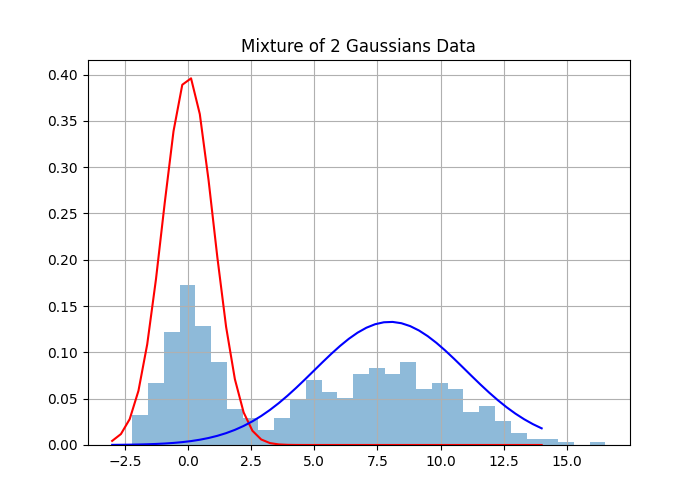
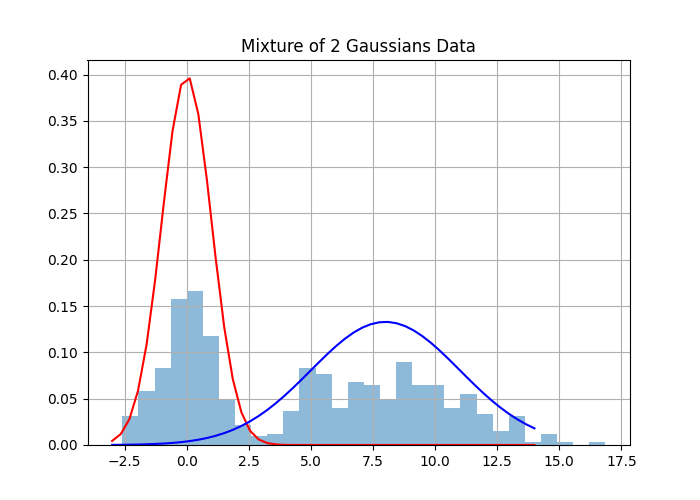
test

diff --git a/docs/post/2021-04-04-gibbs-sampling-for-mixutre-of-normals/index.en.html b/docs/post/2021-04-04-gibbs-sampling-for-mixutre-of-normals/index.en.html
@@ -69,29 +69,34 @@ code span.wa { color: #bf0303; } /* Warning */
 </style>
 
 
+<head>
+<script src="https://cdnjs.cloudflare.com/ajax/libs/KaTeX/0.11.1/katex.min.js"
+        integrity="sha256-F/Xda58SPdcUCr+xhSGz9MA2zQBPb0ASEYKohl8UCHc=" crossorigin="anonymous">
+</script>
+<link rel="stylesheet" href="https://cdn.jsdelivr.net/npm/pseudocode@latest/build/pseudocode.min.css">
+<script src="https://cdn.jsdelivr.net/npm/pseudocode@latest/build/pseudocode.min.js">
+</script>
+</head>
 <div id="gibbs-sampling" class="section level2">
 <h2>Gibbs Sampling</h2>
 <p>Gibbs sampling is a Markov Chain Monte Carlo method for sampling from a posterior distribution usually defined
 as <span class="math inline">\(p(\theta|data)\)</span>. The idea behind the Gibbs Sampler is to sweep through each one of the parameters and sample from their conditional distributions, fixing the other parameters constant. For example, consider the random variables <span class="math inline">\(X_1, X_2, X_3\)</span> and assume that I can write out the analytic form of <span class="math inline">\(p(X_1|X_2,X_3), p(X_2|X_1,X_3), p(X_3|X_2,X_1)\)</span> . We start by initializing <span class="math inline">\(x_{1,t}, x_{2,t}, x_{3,t}\)</span> and for each iteration <span class="math inline">\(t\)</span> we sample <span class="math inline">\(p(X_{1,t+1}|X_{2,t},X_{3,t})\)</span>, <span class="math inline">\(p(X_{2,t+1}|X_{1,t+1},X_{3,t})\)</span>, and <span class="math inline">\(p(X_{3,t+1}|X_{2,t+1},X_{3,t+1})\)</span>. This process can then continue until convergence. Algorithm 1 details a general Gibbs Sampler.</p>
-<span class="math display">\[
-\begin{algorithm}[H]
-\SetAlgoLined
-\KwResult{Write here the result }
- initialization\;
- \While{While condition}{
-  instructions\;
-  \eIf{condition}{
-   instructions1\;
-   instructions2\;
-   }{
-   instructions3\;
-  }
- }
- \caption{How to write algorithms}
-\end{algorithm}
-\]</span>
-$$
-<p>$$</p>
+<pre id="gibbs" style="display:hidden;">
+    \begin{algorithm}
+    \caption{Gibbs Sampling}
+    \begin{algorithmic}
+    \STATE initialize $x_0 \sim q(x)$
+        \FOR{$i = 1, 2, ...$} 
+            \STATE $x_{1,i} \sim p(X_1 = x_1 | X_2 = x_{2,i-1}, X_3 = x_{3,i-1}, ..., X_k = x_{k,i-1})$
+            \STATE $x_{2,i} \sim p(X_2 = x_2 | X_1 = x_{1,i}, X_3 = x_{3,i-1}, ..., X_k = x_{k,i-1})$
+            \STATE $x_{3,i} \sim p(X_3 = x_3 | X_1 = x_{1,i}, X_2 = x_{2,i}, ..., X_k = x_{k,i-1})$
+        \ENDFOR
+    \end{algorithmic}
+    \end{algorithm}
+</pre>
+<script>
+    pseudocode.renderElement(document.getElementById("gibbs"));
+</script>
 </div>
 <div id="mixture-of-normals" class="section level2">
 <h2>Mixture of Normals</h2>
@@ -127,18 +132,19 @@ from <span class="math inline">\(\phi_{\theta_2}(x)\)</span> where <span class="
 <span id="cb1-28"><a href="#cb1-28" aria-hidden="true" tabindex="-1"></a></span>
 <span id="cb1-29"><a href="#cb1-29" aria-hidden="true" tabindex="-1"></a><span class="co"># Create Plot of Data </span></span>
 <span id="cb1-30"><a href="#cb1-30" aria-hidden="true" tabindex="-1"></a>plt.hist(y, <span class="dv">30</span>, density<span class="op">=</span><span class="va">True</span>, alpha<span class="op">=</span><span class="fl">0.5</span>)</span></code></pre></div>
-<pre><code>## (array([0.03204633, 0.0672973 , 0.12177607, 0.17305021, 0.12818534,
-##        0.08972974, 0.0384556 , 0.0288417 , 0.01602317, 0.0288417 ,
-##        0.0480695 , 0.07050194, 0.0576834 , 0.05127414, 0.0769112 ,
-##        0.08332047, 0.0769112 , 0.08972974, 0.06088804, 0.0672973 ,
-##        0.06088804, 0.03525097, 0.04166023, 0.02563707, 0.01281853,
-##        0.00640927, 0.00640927, 0.00320463, 0.        , 0.00320463]), array([-2.20215092, -1.57805458, -0.95395824, -0.3298619 ,  0.29423444,
-##         0.91833078,  1.54242712,  2.16652346,  2.79061979,  3.41471613,
-##         4.03881247,  4.66290881,  5.28700515,  5.91110149,  6.53519783,
-##         7.15929417,  7.78339051,  8.40748685,  9.03158319,  9.65567953,
-##        10.27977587, 10.90387221, 11.52796855, 12.15206489, 12.77616123,
-##        13.40025757, 14.02435391, 14.64845025, 15.27254659, 15.89664293,
-##        16.52073927]), &lt;BarContainer object of 30 artists&gt;)</code></pre>
+<pre><code>## (array([0.03085908, 0.05863225, 0.08331951, 0.1573813 , 0.16663902,
+##        0.1172645 , 0.04937453, 0.02160136, 0.00925772, 0.01234363,
+##        0.03703089, 0.08331951, 0.0771477 , 0.0401168 , 0.06788997,
+##        0.06480407, 0.04937453, 0.08949133, 0.06480407, 0.06480407,
+##        0.0401168 , 0.05554634, 0.03394499, 0.01542954, 0.03085908,
+##        0.00308591, 0.01234363, 0.00308591, 0.        , 0.00308591]), array([-2.58806699e+00, -1.93995950e+00, -1.29185201e+00, -6.43744519e-01,
+##         4.36297185e-03,  6.52470463e-01,  1.30057795e+00,  1.94868544e+00,
+##         2.59679294e+00,  3.24490043e+00,  3.89300792e+00,  4.54111541e+00,
+##         5.18922290e+00,  5.83733039e+00,  6.48543788e+00,  7.13354537e+00,
+##         7.78165286e+00,  8.42976035e+00,  9.07786784e+00,  9.72597534e+00,
+##         1.03740828e+01,  1.10221903e+01,  1.16702978e+01,  1.23184053e+01,
+##         1.29665128e+01,  1.36146203e+01,  1.42627278e+01,  1.49108353e+01,
+##         1.55589428e+01,  1.62070502e+01,  1.68551577e+01]), &lt;BarContainer object of 30 artists&gt;)</code></pre>
 <div class="sourceCode" id="cb3"><pre class="sourceCode python"><code class="sourceCode python"><span id="cb3-1"><a href="#cb3-1" aria-hidden="true" tabindex="-1"></a>plt.plot(x, norm(mu[<span class="dv">0</span>], sigmas[<span class="dv">0</span>]).pdf(x), color<span class="op">=</span><span class="st">&quot;red&quot;</span>)</span>
 <span id="cb3-2"><a href="#cb3-2" aria-hidden="true" tabindex="-1"></a>plt.plot(x, norm(mu[<span class="dv">1</span>], sigmas[<span class="dv">1</span>]).pdf(x), color<span class="op">=</span><span class="st">&quot;blue&quot;</span>)</span>
 <span id="cb3-3"><a href="#cb3-3" aria-hidden="true" tabindex="-1"></a>plt.title(<span class="st">&quot;Mixture of 2 Gaussians Data&quot;</span>)</span>
@@ -314,18 +320,19 @@ p(z|\theta,x) &amp; = \frac{p(\theta,x,z)}{p(\theta,x)} \\
 <span id="cb8-32"><a href="#cb8-32" aria-hidden="true" tabindex="-1"></a>pi <span class="op">=</span> np.<span class="bu">round</span>(np.mean(trace[:,<span class="dv">4</span>]),<span class="dv">2</span>)</span>
 <span id="cb8-33"><a href="#cb8-33" aria-hidden="true" tabindex="-1"></a></span>
 <span id="cb8-34"><a href="#cb8-34" aria-hidden="true" tabindex="-1"></a>plt.hist(y, <span class="dv">30</span>, density<span class="op">=</span><span class="va">True</span>, alpha<span class="op">=</span><span class="fl">0.5</span>)</span></code></pre></div>
-<pre><code>## (array([0.03204633, 0.0672973 , 0.12177607, 0.17305021, 0.12818534,
-##        0.08972974, 0.0384556 , 0.0288417 , 0.01602317, 0.0288417 ,
-##        0.0480695 , 0.07050194, 0.0576834 , 0.05127414, 0.0769112 ,
-##        0.08332047, 0.0769112 , 0.08972974, 0.06088804, 0.0672973 ,
-##        0.06088804, 0.03525097, 0.04166023, 0.02563707, 0.01281853,
-##        0.00640927, 0.00640927, 0.00320463, 0.        , 0.00320463]), array([-2.20215092, -1.57805458, -0.95395824, -0.3298619 ,  0.29423444,
-##         0.91833078,  1.54242712,  2.16652346,  2.79061979,  3.41471613,
-##         4.03881247,  4.66290881,  5.28700515,  5.91110149,  6.53519783,
-##         7.15929417,  7.78339051,  8.40748685,  9.03158319,  9.65567953,
-##        10.27977587, 10.90387221, 11.52796855, 12.15206489, 12.77616123,
-##        13.40025757, 14.02435391, 14.64845025, 15.27254659, 15.89664293,
-##        16.52073927]), &lt;BarContainer object of 30 artists&gt;)</code></pre>
+<pre><code>## (array([0.03085908, 0.05863225, 0.08331951, 0.1573813 , 0.16663902,
+##        0.1172645 , 0.04937453, 0.02160136, 0.00925772, 0.01234363,
+##        0.03703089, 0.08331951, 0.0771477 , 0.0401168 , 0.06788997,
+##        0.06480407, 0.04937453, 0.08949133, 0.06480407, 0.06480407,
+##        0.0401168 , 0.05554634, 0.03394499, 0.01542954, 0.03085908,
+##        0.00308591, 0.01234363, 0.00308591, 0.        , 0.00308591]), array([-2.58806699e+00, -1.93995950e+00, -1.29185201e+00, -6.43744519e-01,
+##         4.36297185e-03,  6.52470463e-01,  1.30057795e+00,  1.94868544e+00,
+##         2.59679294e+00,  3.24490043e+00,  3.89300792e+00,  4.54111541e+00,
+##         5.18922290e+00,  5.83733039e+00,  6.48543788e+00,  7.13354537e+00,
+##         7.78165286e+00,  8.42976035e+00,  9.07786784e+00,  9.72597534e+00,
+##         1.03740828e+01,  1.10221903e+01,  1.16702978e+01,  1.23184053e+01,
+##         1.29665128e+01,  1.36146203e+01,  1.42627278e+01,  1.49108353e+01,
+##         1.55589428e+01,  1.62070502e+01,  1.68551577e+01]), &lt;BarContainer object of 30 artists&gt;)</code></pre>
 <div class="sourceCode" id="cb10"><pre class="sourceCode python"><code class="sourceCode python"><span id="cb10-1"><a href="#cb10-1" aria-hidden="true" tabindex="-1"></a>plt.plot(x, norm(mu[<span class="dv">0</span>], sigmas[<span class="dv">0</span>]).pdf(x), color<span class="op">=</span><span class="st">&quot;red&quot;</span>, label<span class="op">=</span><span class="st">&quot;Actual&quot;</span>)</span>
 <span id="cb10-2"><a href="#cb10-2" aria-hidden="true" tabindex="-1"></a>plt.plot(x, norm(mu[<span class="dv">1</span>], sigmas[<span class="dv">1</span>]).pdf(x), color<span class="op">=</span><span class="st">&quot;red&quot;</span>)</span>
 <span id="cb10-3"><a href="#cb10-3" aria-hidden="true" tabindex="-1"></a>plt.plot(x, norm(mu1, sigma1).pdf(x), color<span class="op">=</span><span class="st">&quot;blue&quot;</span>, label<span class="op">=</span><span class="st">&quot;Fitted&quot;</span>)</span>

diff --git a/docs/post/2021-04-04-gibbs-sampling-for-mixutre-of-normals/index.html b/docs/post/2021-04-04-gibbs-sampling-for-mixutre-of-normals/index.html
@@ -228,29 +228,34 @@ code span.wa { color: #bf0303; } /* Warning */
 </style>
 
 
+<head>
+<script src="https://cdnjs.cloudflare.com/ajax/libs/KaTeX/0.11.1/katex.min.js"
+        integrity="sha256-F/Xda58SPdcUCr+xhSGz9MA2zQBPb0ASEYKohl8UCHc=" crossorigin="anonymous">
+</script>
+<link rel="stylesheet" href="https://cdn.jsdelivr.net/npm/pseudocode@latest/build/pseudocode.min.css">
+<script src="https://cdn.jsdelivr.net/npm/pseudocode@latest/build/pseudocode.min.js">
+</script>
+</head>
 <div id="gibbs-sampling" class="section level2">
 <h2>Gibbs Sampling</h2>
 <p>Gibbs sampling is a Markov Chain Monte Carlo method for sampling from a posterior distribution usually defined
 as <span class="math inline">\(p(\theta|data)\)</span>. The idea behind the Gibbs Sampler is to sweep through each one of the parameters and sample from their conditional distributions, fixing the other parameters constant. For example, consider the random variables <span class="math inline">\(X_1, X_2, X_3\)</span> and assume that I can write out the analytic form of <span class="math inline">\(p(X_1|X_2,X_3), p(X_2|X_1,X_3), p(X_3|X_2,X_1)\)</span> . We start by initializing <span class="math inline">\(x_{1,t}, x_{2,t}, x_{3,t}\)</span> and for each iteration <span class="math inline">\(t\)</span> we sample <span class="math inline">\(p(X_{1,t+1}|X_{2,t},X_{3,t})\)</span>, <span class="math inline">\(p(X_{2,t+1}|X_{1,t+1},X_{3,t})\)</span>, and <span class="math inline">\(p(X_{3,t+1}|X_{2,t+1},X_{3,t+1})\)</span>. This process can then continue until convergence. Algorithm 1 details a general Gibbs Sampler.</p>
-<span class="math display">\[
-\begin{algorithm}[H]
-\SetAlgoLined
-\KwResult{Write here the result }
- initialization\;
- \While{While condition}{
-  instructions\;
-  \eIf{condition}{
-   instructions1\;
-   instructions2\;
-   }{
-   instructions3\;
-  }
- }
- \caption{How to write algorithms}
-\end{algorithm}
-\]</span>
-$$
-<p>$$</p>
+<pre id="gibbs" style="display:hidden;">
+    \begin{algorithm}
+    \caption{Gibbs Sampling}
+    \begin{algorithmic}
+    \STATE initialize $x_0 \sim q(x)$
+        \FOR{$i = 1, 2, ...$} 
+            \STATE $x_{1,i} \sim p(X_1 = x_1 | X_2 = x_{2,i-1}, X_3 = x_{3,i-1}, ..., X_k = x_{k,i-1})$
+            \STATE $x_{2,i} \sim p(X_2 = x_2 | X_1 = x_{1,i}, X_3 = x_{3,i-1}, ..., X_k = x_{k,i-1})$
+            \STATE $x_{3,i} \sim p(X_3 = x_3 | X_1 = x_{1,i}, X_2 = x_{2,i}, ..., X_k = x_{k,i-1})$
+        \ENDFOR
+    \end{algorithmic}
+    \end{algorithm}
+</pre>
+<script>
+    pseudocode.renderElement(document.getElementById("gibbs"));
+</script>
 </div>
 <div id="mixture-of-normals" class="section level2">
 <h2>Mixture of Normals</h2>
@@ -286,18 +291,18 @@ from <span class="math inline">\(\phi_{\theta_2}(x)\)</span> where <span class="
 <span id="cb1-28"><a href="#cb1-28" aria-hidden="true" tabindex="-1"></a></span>
 <span id="cb1-29"><a href="#cb1-29" aria-hidden="true" tabindex="-1"></a><span class="co"># Create Plot of Data </span></span>
 <span id="cb1-30"><a href="#cb1-30" aria-hidden="true" tabindex="-1"></a>plt.hist(y, <span class="dv">30</span>, density<span class="op">=</span><span class="va">True</span>, alpha<span class="op">=</span><span class="fl">0.5</span>)</span></code></pre></div>
-<pre><code>## (array([0.00303466, 0.00303466, 0.0364159 , 0.06372782, 0.17601017,
-##        0.12442098, 0.12138633, 0.05765851, 0.01820795, 0.00910397,
-##        0.01517329, 0.0364159 , 0.06676248, 0.05158919, 0.0728318 ,
-##        0.06372782, 0.06372782, 0.10924769, 0.05462385, 0.09710906,
-##        0.06979714, 0.02731192, 0.05765851, 0.02731192, 0.04551987,
-##        0.01517329, 0.01213863, 0.00606932, 0.00303466, 0.00910397]), array([-3.41231017, -2.75325736, -2.09420455, -1.43515174, -0.77609892,
-##        -0.11704611,  0.5420067 ,  1.20105951,  1.86011233,  2.51916514,
-##         3.17821795,  3.83727076,  4.49632357,  5.15537639,  5.8144292 ,
-##         6.47348201,  7.13253482,  7.79158764,  8.45064045,  9.10969326,
-##         9.76874607, 10.42779888, 11.0868517 , 11.74590451, 12.40495732,
-##        13.06401013, 13.72306295, 14.38211576, 15.04116857, 15.70022138,
-##        16.3592742 ]), &lt;BarContainer object of 30 artists&gt;)</code></pre>
+<pre><code>## (array([0.00609786, 0.02134252, 0.06097863, 0.13110405, 0.12805511,
+##        0.15854443, 0.07927221, 0.02439145, 0.01524466, 0.01829359,
+##        0.01524466, 0.04573397, 0.06707649, 0.05488076, 0.09451687,
+##        0.08537008, 0.08841901, 0.06707649, 0.07317435, 0.06402756,
+##        0.07012542, 0.05488076, 0.03048931, 0.01524466, 0.02439145,
+##        0.01829359, 0.00609786, 0.        , 0.00304893, 0.00304893]), array([-3.09556886, -2.43960131, -1.78363375, -1.1276662 , -0.47169864,
+##         0.18426891,  0.84023646,  1.49620402,  2.15217157,  2.80813913,
+##         3.46410668,  4.12007424,  4.77604179,  5.43200935,  6.0879769 ,
+##         6.74394445,  7.39991201,  8.05587956,  8.71184712,  9.36781467,
+##        10.02378223, 10.67974978, 11.33571734, 11.99168489, 12.64765244,
+##        13.30362   , 13.95958755, 14.61555511, 15.27152266, 15.92749022,
+##        16.58345777]), &lt;BarContainer object of 30 artists&gt;)</code></pre>
 <div class="sourceCode" id="cb3"><pre class="sourceCode python"><code class="sourceCode python"><span id="cb3-1"><a href="#cb3-1" aria-hidden="true" tabindex="-1"></a>plt.plot(x, norm(mu[<span class="dv">0</span>], sigmas[<span class="dv">0</span>]).pdf(x), color<span class="op">=</span><span class="st">&quot;red&quot;</span>)</span>
 <span id="cb3-2"><a href="#cb3-2" aria-hidden="true" tabindex="-1"></a>plt.plot(x, norm(mu[<span class="dv">1</span>], sigmas[<span class="dv">1</span>]).pdf(x), color<span class="op">=</span><span class="st">&quot;blue&quot;</span>)</span>
 <span id="cb3-3"><a href="#cb3-3" aria-hidden="true" tabindex="-1"></a>plt.title(<span class="st">&quot;Mixture of 2 Gaussians Data&quot;</span>)</span>
@@ -473,18 +478,18 @@ p(z|\theta,x) &amp; = \frac{p(\theta,x,z)}{p(\theta,x)} \\
 <span id="cb8-32"><a href="#cb8-32" aria-hidden="true" tabindex="-1"></a>pi <span class="op">=</span> np.<span class="bu">round</span>(np.mean(trace[:,<span class="dv">4</span>]),<span class="dv">2</span>)</span>
 <span id="cb8-33"><a href="#cb8-33" aria-hidden="true" tabindex="-1"></a></span>
 <span id="cb8-34"><a href="#cb8-34" aria-hidden="true" tabindex="-1"></a>plt.hist(y, <span class="dv">30</span>, density<span class="op">=</span><span class="va">True</span>, alpha<span class="op">=</span><span class="fl">0.5</span>)</span></code></pre></div>
-<pre><code>## (array([0.00303466, 0.00303466, 0.0364159 , 0.06372782, 0.17601017,
-##        0.12442098, 0.12138633, 0.05765851, 0.01820795, 0.00910397,
-##        0.01517329, 0.0364159 , 0.06676248, 0.05158919, 0.0728318 ,
-##        0.06372782, 0.06372782, 0.10924769, 0.05462385, 0.09710906,
-##        0.06979714, 0.02731192, 0.05765851, 0.02731192, 0.04551987,
-##        0.01517329, 0.01213863, 0.00606932, 0.00303466, 0.00910397]), array([-3.41231017, -2.75325736, -2.09420455, -1.43515174, -0.77609892,
-##        -0.11704611,  0.5420067 ,  1.20105951,  1.86011233,  2.51916514,
-##         3.17821795,  3.83727076,  4.49632357,  5.15537639,  5.8144292 ,
-##         6.47348201,  7.13253482,  7.79158764,  8.45064045,  9.10969326,
-##         9.76874607, 10.42779888, 11.0868517 , 11.74590451, 12.40495732,
-##        13.06401013, 13.72306295, 14.38211576, 15.04116857, 15.70022138,
-##        16.3592742 ]), &lt;BarContainer object of 30 artists&gt;)</code></pre>
+<pre><code>## (array([0.00609786, 0.02134252, 0.06097863, 0.13110405, 0.12805511,
+##        0.15854443, 0.07927221, 0.02439145, 0.01524466, 0.01829359,
+##        0.01524466, 0.04573397, 0.06707649, 0.05488076, 0.09451687,
+##        0.08537008, 0.08841901, 0.06707649, 0.07317435, 0.06402756,
+##        0.07012542, 0.05488076, 0.03048931, 0.01524466, 0.02439145,
+##        0.01829359, 0.00609786, 0.        , 0.00304893, 0.00304893]), array([-3.09556886, -2.43960131, -1.78363375, -1.1276662 , -0.47169864,
+##         0.18426891,  0.84023646,  1.49620402,  2.15217157,  2.80813913,
+##         3.46410668,  4.12007424,  4.77604179,  5.43200935,  6.0879769 ,
+##         6.74394445,  7.39991201,  8.05587956,  8.71184712,  9.36781467,
+##        10.02378223, 10.67974978, 11.33571734, 11.99168489, 12.64765244,
+##        13.30362   , 13.95958755, 14.61555511, 15.27152266, 15.92749022,
+##        16.58345777]), &lt;BarContainer object of 30 artists&gt;)</code></pre>
 <div class="sourceCode" id="cb10"><pre class="sourceCode python"><code class="sourceCode python"><span id="cb10-1"><a href="#cb10-1" aria-hidden="true" tabindex="-1"></a>plt.plot(x, norm(mu[<span class="dv">0</span>], sigmas[<span class="dv">0</span>]).pdf(x), color<span class="op">=</span><span class="st">&quot;red&quot;</span>, label<span class="op">=</span><span class="st">&quot;Actual&quot;</span>)</span>
 <span id="cb10-2"><a href="#cb10-2" aria-hidden="true" tabindex="-1"></a>plt.plot(x, norm(mu[<span class="dv">1</span>], sigmas[<span class="dv">1</span>]).pdf(x), color<span class="op">=</span><span class="st">&quot;red&quot;</span>)</span>
 <span id="cb10-3"><a href="#cb10-3" aria-hidden="true" tabindex="-1"></a>plt.plot(x, norm(mu1, sigma1).pdf(x), color<span class="op">=</span><span class="st">&quot;blue&quot;</span>, label<span class="op">=</span><span class="st">&quot;Fitted&quot;</span>)</span>
